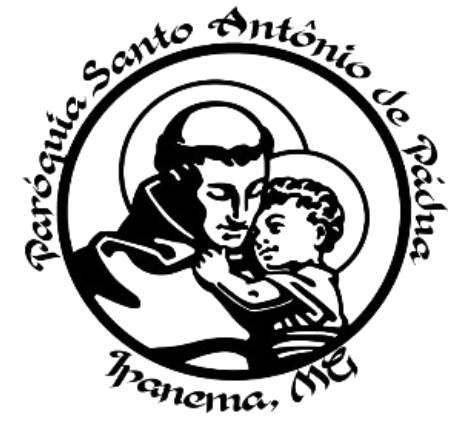
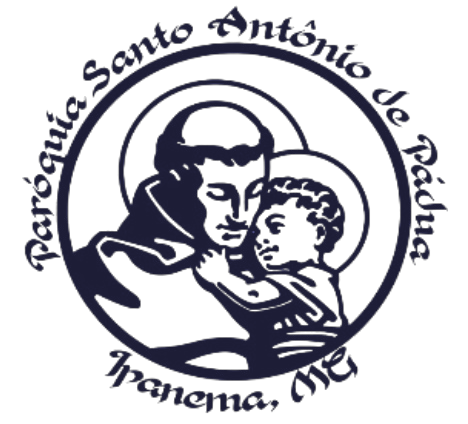
Correção icone

diff --git a/main.css b/main.css
@@ -29,7 +29,7 @@ body {
 
 @media (max-width: 400px) {
     .content {
-        width: 90%;
+        width: 85%;
     }
 }
 h2, h3{
